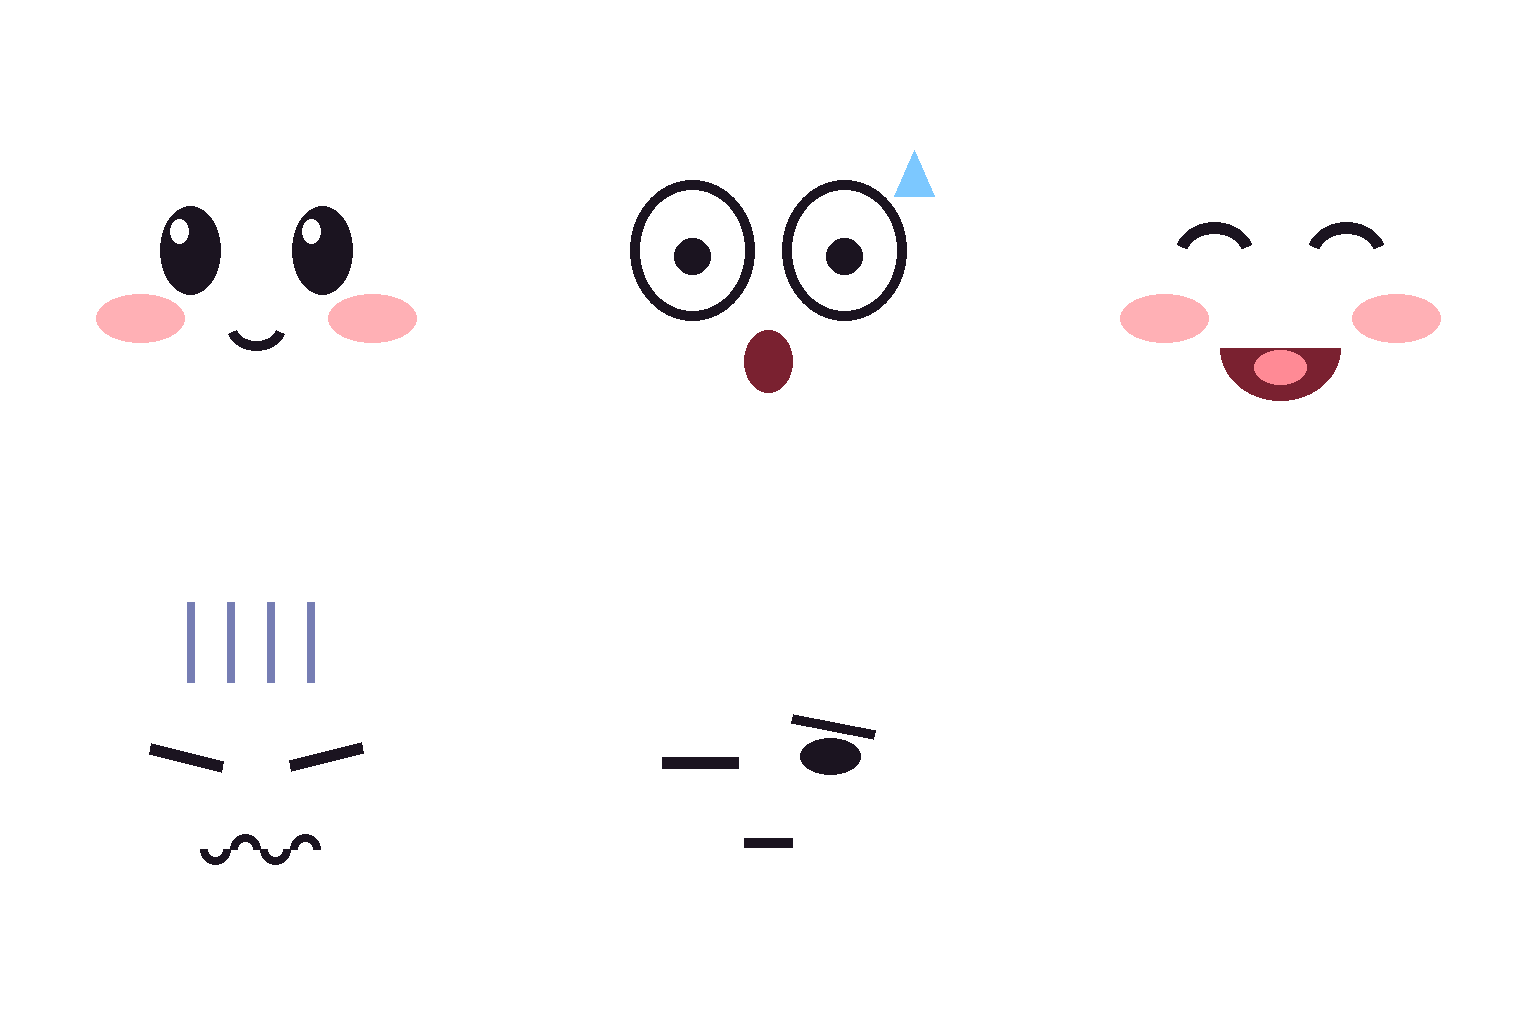
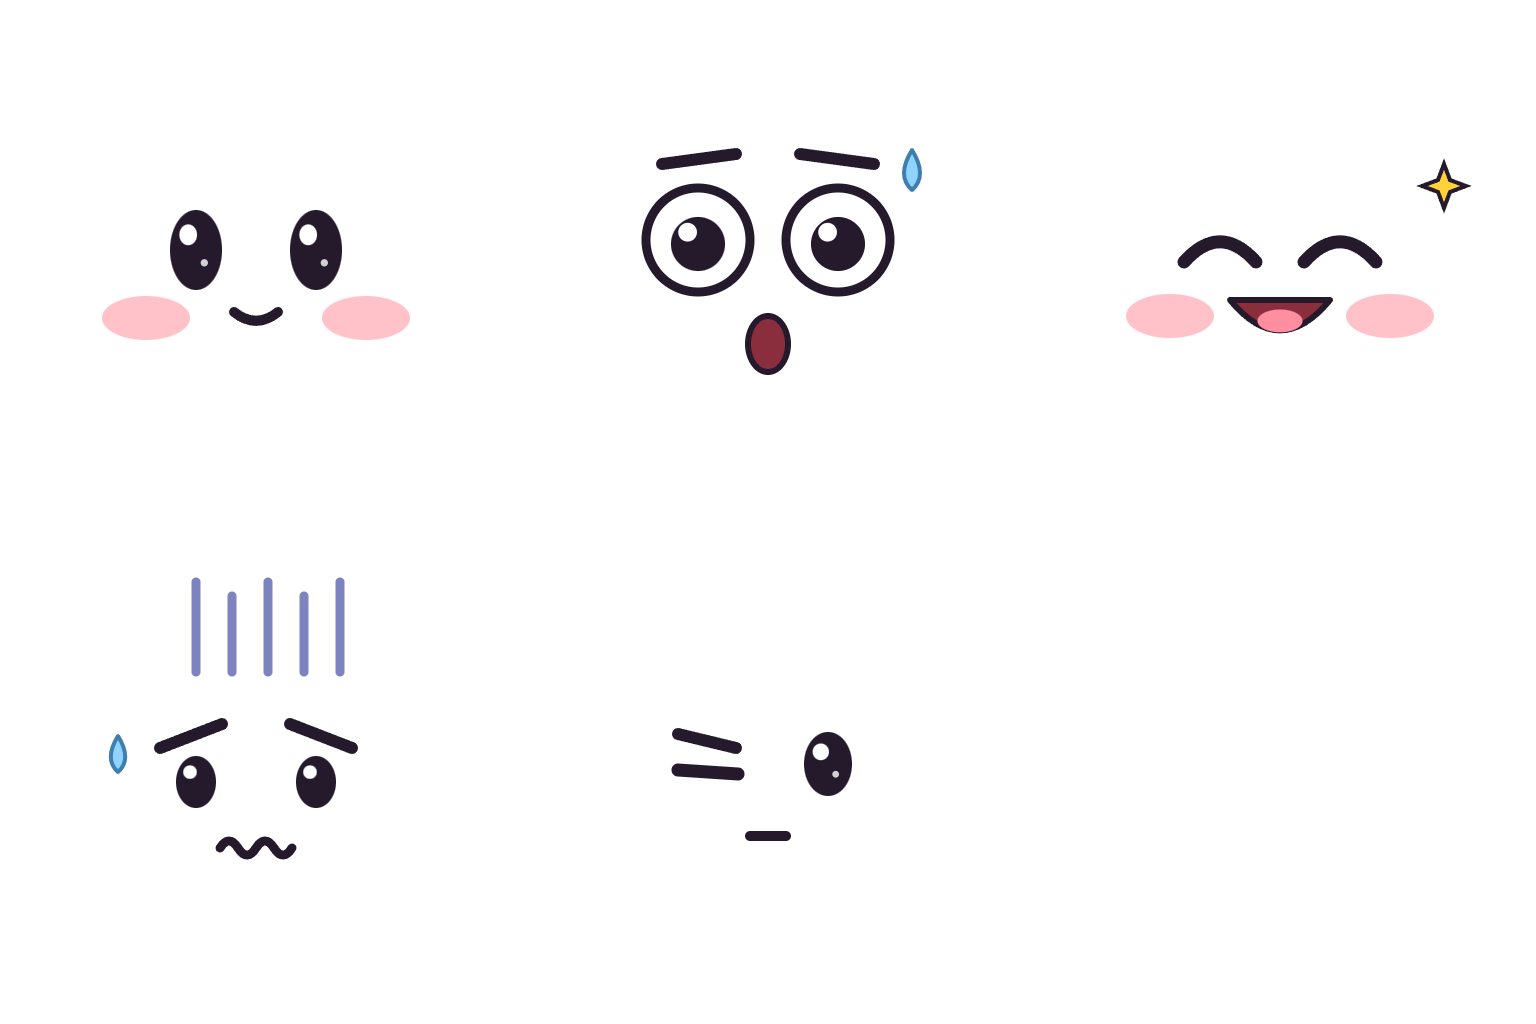
feat(lookdev): 얼굴 아틀라스를 스타일 C로 다시 그린다 — 평소 동숲, 사건 때 바람의 지휘봉 과장
원본을 파이썬 생성기에서 SVG(face_atlas.html)로 바꾸고 헤드리스 크롬으로 투명 PNG를 뽑는다.
좌절 눈썹은 걱정하는 모양(안쪽이 위로)으로.

Claude-Session: https://claude.ai/code/session_01J3Xe7rZoLKi3dJFGKrLsGL

diff --git a/Scripts/lookdev/face_atlas.html b/Scripts/lookdev/face_atlas.html
@@ -1,0 +1,57 @@
+<!doctype html>
+<!--
+  LookDev 얼굴 아틀라스 원본(스타일 C: 평소 동숲, 사건 때 바람의 지휘봉). 3열×2행, 칸 512px.
+  순서: Normal, Surprise, Cheer, Despair, Focus (마지막 칸 비움). 바탕 투명 — 머리카락은 모델 영역 색이 맡는다.
+
+  PNG로 뽑기(클라 루트에서):
+    "C:/Program Files/Google/Chrome/Application/chrome.exe" --headless=new --hide-scrollbars \
+      --default-background-color=00000000 --window-size=1536,1024 \
+      --screenshot="<클라 경로>/Assets/LookDev/Face/FaceAtlas.png" "file:///<클라 경로>/Scripts/lookdev/face_atlas.html"
+-->
+<html><head><meta charset="utf-8"><style>html,body{margin:0;background:transparent;overflow:hidden}svg{display:block}</style></head>
+<body><svg id="atlas" width="1536" height="1024" viewBox="0 0 1536 1024" xmlns="http://www.w3.org/2000/svg"></svg>
+<script>
+(function () {
+  var INK = '#241A2C', MOUTH = '#8A2E3E', TONGUE = '#FF8FA0', BLUSH = 'rgba(255,120,135,.45)', SWEAT = '#8FD3FF', GLOOM = 'rgba(80,90,170,.75)';
+  function blush(y) { return '<ellipse cx="146" cy="' + y + '" rx="44" ry="22" fill="' + BLUSH + '"/><ellipse cx="366" cy="' + y + '" rx="44" ry="22" fill="' + BLUSH + '"/>'; }
+  function ovalEye(cx, cy, rx, ry, hl) {
+    return '<ellipse cx="' + cx + '" cy="' + cy + '" rx="' + rx + '" ry="' + ry + '" fill="' + INK + '"/>' +
+      '<ellipse cx="' + (cx - rx * 0.3) + '" cy="' + (cy - ry * 0.38) + '" rx="' + rx * 0.34 + '" ry="' + ry * 0.26 + '" fill="#fff"/>' +
+      (hl ? '<circle cx="' + (cx + rx * 0.32) + '" cy="' + (cy + ry * 0.32) + '" r="' + rx * 0.14 + '" fill="#fff" opacity=".8"/>' : '');
+  }
+  function bigEye(cx, cy, r, look) {
+    return '<circle cx="' + cx + '" cy="' + cy + '" r="' + r + '" fill="#fff" stroke="' + INK + '" stroke-width="9"/>' +
+      '<circle cx="' + (cx + (look || 0)) + '" cy="' + (cy + 4) + '" r="' + r * 0.52 + '" fill="' + INK + '"/>' +
+      '<circle cx="' + (cx + (look || 0) - r * 0.2) + '" cy="' + (cy - r * 0.15) + '" r="' + r * 0.18 + '" fill="#fff"/>';
+  }
+  function happyArc(cx, cy, w) { return '<path d="M' + (cx - w) + ' ' + (cy + 8) + ' Q' + cx + ' ' + (cy - w * 0.9) + ' ' + (cx + w) + ' ' + (cy + 8) + '" fill="none" stroke="' + INK + '" stroke-width="13" stroke-linecap="round"/>'; }
+  function brow(x1, y1, x2, y2, w) { return '<path d="M' + x1 + ' ' + y1 + ' L' + x2 + ' ' + y2 + '" stroke="' + INK + '" stroke-width="' + (w || 12) + '" stroke-linecap="round"/>'; }
+  function smile(cx, cy, w) { return '<path d="M' + (cx - w) + ' ' + cy + ' Q' + cx + ' ' + (cy + w * 0.8) + ' ' + (cx + w) + ' ' + cy + '" fill="none" stroke="' + INK + '" stroke-width="10" stroke-linecap="round"/>'; }
+  function openMouth(cx, cy, w, h) {
+    return '<path d="M' + (cx - w) + ' ' + cy + ' Q' + cx + ' ' + (cy + h * 1.6) + ' ' + (cx + w) + ' ' + cy + ' Z" fill="' + MOUTH + '" stroke="' + INK + '" stroke-width="6" stroke-linejoin="round"/>' +
+      '<ellipse cx="' + cx + '" cy="' + (cy + h * 0.55) + '" rx="' + w * 0.45 + '" ry="' + h * 0.3 + '" fill="' + TONGUE + '"/>';
+  }
+  function oMouth(cx, cy, rx, ry) { return '<ellipse cx="' + cx + '" cy="' + cy + '" rx="' + rx + '" ry="' + ry + '" fill="' + MOUTH + '" stroke="' + INK + '" stroke-width="6"/>'; }
+  function wave(cx, cy, w) {
+    var d = 'M' + (cx - w) + ' ' + cy, n = 4, step = 2 * w / n;
+    for (var i = 0; i < n; i++) { d += ' q' + step / 2 + ' ' + (i % 2 ? 14 : -14) + ' ' + step + ' 0'; }
+    return '<path d="' + d + '" fill="none" stroke="' + INK + '" stroke-width="9" stroke-linecap="round"/>';
+  }
+  function sweat(x, y, s) { return '<path d="M' + x + ' ' + y + ' q' + 16 * s + ' ' + 26 * s + ' 0 ' + 40 * s + ' q-' + 16 * s + ' -' + 14 * s + ' 0 -' + 40 * s + ' Z" fill="' + SWEAT + '" stroke="#3E7FB0" stroke-width="4"/>'; }
+  function gloom() { var s = ''; [196, 232, 268, 304, 340].forEach(function (x, i) { s += '<path d="M' + x + ' ' + (70 + (i % 2) * 14) + ' L' + x + ' 160" stroke="' + GLOOM + '" stroke-width="9" stroke-linecap="round"/>'; }); return s; }
+  function spark(x, y) { return '<path d="M' + x + ' ' + (y - 22) + ' L' + (x + 6) + ' ' + (y - 6) + ' L' + (x + 22) + ' ' + y + ' L' + (x + 6) + ' ' + (y + 6) + ' L' + x + ' ' + (y + 22) + ' L' + (x - 6) + ' ' + (y + 6) + ' L' + (x - 22) + ' ' + y + ' L' + (x - 6) + ' ' + (y - 6) + ' Z" fill="#FFD23A" stroke="' + INK + '" stroke-width="4"/>'; }
+
+  var FACES = [
+    function () { return ovalEye(196, 250, 26, 40, true) + ovalEye(316, 250, 26, 40, true) + blush(318) + smile(256, 312, 22); },
+    function () { return brow(150, 164, 224, 154, 12) + brow(362, 164, 288, 154, 12) + bigEye(186, 240, 52) + bigEye(326, 240, 52) + oMouth(256, 344, 20, 28) + sweat(400, 150, 1); },
+    function () { return happyArc(196, 254, 36) + happyArc(316, 254, 36) + blush(316) + openMouth(256, 300, 50, 38) + spark(420, 186); },
+    function () { return gloom() + brow(160, 236, 222, 212, 12) + brow(352, 236, 290, 212, 12) + ovalEye(196, 270, 20, 26) + ovalEye(316, 270, 20, 26) + wave(256, 336, 36) + sweat(118, 224, 0.9); },
+    function () { return brow(166, 222, 224, 236, 12) + '<path d="M166 258 L226 262" stroke="' + INK + '" stroke-width="13" stroke-linecap="round"/>' + ovalEye(316, 252, 24, 32, true) + '<path d="M238 324 L274 324" stroke="' + INK + '" stroke-width="10" stroke-linecap="round"/>'; }
+  ];
+  var svg = '';
+  FACES.forEach(function (f, i) {
+    svg += '<g transform="translate(' + (i % 3) * 512 + ' ' + Math.floor(i / 3) * 512 + ')">' + f() + '</g>';
+  });
+  document.getElementById('atlas').innerHTML = svg;
+})();
+</script></body></html>

diff --git a/Assets/LookDev/README.md b/Assets/LookDev/README.md
@@ -13,4 +13,9 @@
 ## 메뉴
 
 - `LOP/LookDev/Build Scene` — `LookDev.unity`를 처음부터 다시 조립한다.
-- `LOP/LookDev/Capture` — 카메라 둘(가까이·게임 거리)을 `output/lookdev/*.png`로 남긴다.
+- `LOP/LookDev/Capture` — 카메라 셋(가까이·게임 거리·얼굴 정면)을 `output/lookdev/*.png`로 남긴다.
+- `LOP/LookDev/Bake Outfit Regions` — 몸 메시에 옷 영역(뼈 기준 6영역)을 굽는다(빌더가 자동으로 부른다).
+
+## 얼굴 아틀라스
+
+원본은 `Scripts/lookdev/face_atlas.html`(SVG, 스타일 C — 평소 동숲, 사건 때 바람의 지휘봉). 파일 머리 주석의 크롬 명령으로 `Face/FaceAtlas.png`를 다시 뽑는다.
